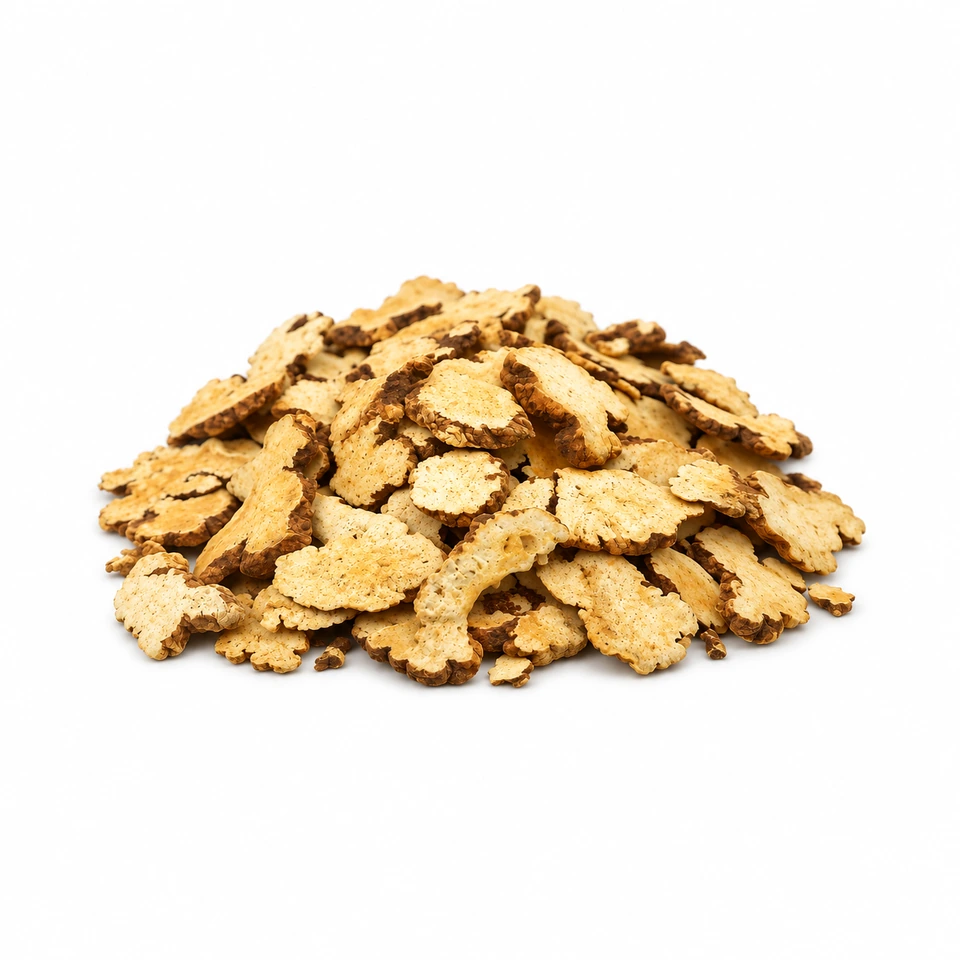
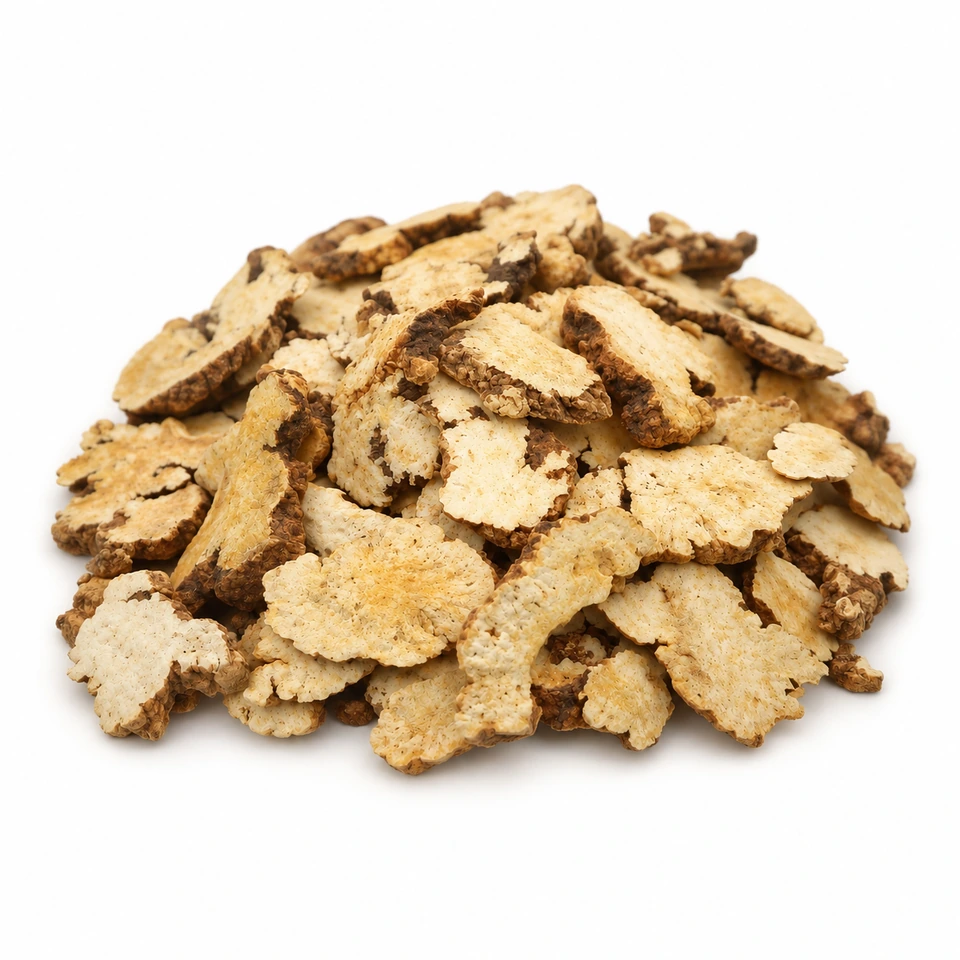
Update premium Dongbuk atractylodes with approved natural larger slices

diff --git a/app/ProductImage.js b/app/ProductImage.js
@@ -8,7 +8,7 @@ export default function ProductImage({ src, name, origin }) {
   const visible = Boolean(src) && !failed;
   const reference = src?.startsWith("/products-reference/");
   const localPhoto = reference || src?.startsWith("/products/");
-  const imageSrc = localPhoto ? `${src}${src.includes("?") ? "&" : "?"}photo=${src.split("?")[0] === "/products-reference/uniform-20261029/herb-001.webp" ? "gaja-20261117-v1" : src.split("?")[0] === "/products-reference/uniform-20261029/herb-003-v2.webp" ? "galgeun-20261117-v1" : src.split("?")[0] === "/products-reference/uniform-20261029/herb-004.webp" ? "galhwa-20261118-v1" : src.split("?")[0] === "/products-reference/uniform-20261029/herb-005.webp" ? "gamguk-20261118-v1" : src.split("?")[0] === "/products-reference/uniform-20261029/gamin-geomin.webp" ? "geomin-20261118-v1" : src.split("?")[0] === "/products-reference/uniform-20261029/herb-007.webp" ? "licorice-20261118-v1" : src.split("?")[0] === "/products-reference/uniform-20261029/gamcho-yangwai1-20261118.webp" ? "yangwai1-20261118-v3" : src.split("?")[0] === "/products-reference/uniform-20261029/gamcho-roasted-v2.webp" ? "roasted-20261118-v2" : src.split("?")[0].startsWith("/products-reference/uniform-20261029/gamcho-roasted-") ? "roasted-20261118-v2" : src.split("?")[0] === "/products-reference/uniform-20261029/herb-008.webp" ? "ganghwal-20261118-v1" : src.split("?")[0] === "/products-reference/uniform-20261029/herb-009-v2.webp" ? "jamganghwal-20261118-v3" : src.split("?")[0] === "/products-reference/uniform-20261029/herb-010.webp" ? "ganghwang-20261118-v2" : src.split("?")[0] === "/products-reference/uniform-20261029/herb-011.webp" ? "gaeja-20261118-v1" : src.split("?")[0] === "/products-reference/uniform-20261029/herb-012.webp" ? "ginger-20261118-v3" : src.split("?")[0] === "/products-reference/uniform-20261029/herb-013-v2.webp" ? "ginger-roasted-20261118-v1" : src.split("?")[0] === "/products-reference/uniform-20261029/ginger-domestic-20261118.webp" ? "ginger-domestic-20261118-v2" : src.split("?")[0] === "/products-reference/uniform-20261029/herb-014-v3.webp" ? "chestnut-20261118-v1" : src.split("?")[0] === "/products-reference/uniform-20261029/herb-015-v2.webp" ? "pharbitis-20261118-v1" : src.split("?")[0] === "/products-reference/uniform-20261029/herb-016.webp" ? "cassia-20261118-v1" : src.split("?")[0] === "/products-reference/uniform-20261029/herb-017-v2.webp" ? "gizzard-20261118-v1" : src.split("?")[0] === "/products-reference/uniform-20261029/herb-018-v2.webp" ? "gizzard-roasted-20261118-v1" : src.split("?")[0] === "/products-reference/uniform-20261029/herb-019-v3.webp" ? "twig-20261118-v1" : src.split("?")[0] === "/products-reference/uniform-20261029/herb-020.webp" ? "vine-20261118-v1" : src.split("?")[0] === "/products-reference/uniform-20261029/herb-021.webp" ? "galangal-20261118-v1" : src.split("?")[0] === "/products-reference/uniform-20261029/gobon-domestic-20261118.webp" ? "gobon-dom-20261118-v1" : src.split("?")[0] === "/products-reference/uniform-20261029/herb-022.webp" ? "gobon-imp-20261118-v1" : src.split("?")[0] === "/products-reference/uniform-20261029/herb-023-v2.webp" ? "sophora-20261118-v1" : src.split("?")[0] === "/products-reference/uniform-20261029/herb-024-v2.webp" ? "mistletoe-20261118-v1" : src.split("?")[0] === "/products-reference/uniform-20261029/herb-025.webp" ? "rice-20261118-v1" : src.split("?")[0] === "/products-reference/uniform-20261029/herb-026-v2.webp" ? "drynaria-20261118-v1" : src.split("?")[0] === "/products-reference/uniform-20261029/herb-027-v2.webp" ? "fruit-20261118-v1" : src.split("?")[0] === "/products-reference/uniform-20261029/gwakhyang.webp" ? "agastache-20261118-v1" : src.split("?")[0] === "/products-reference/uniform-20261029/herb-028-v2.webp" ? "coltsfoot-20261118-v1" : src.split("?")[0] === "/products-reference/uniform-20261029/gwallugeun-domestic-20261118.webp" ? "trich-dom-20261118-v1" : src.split("?")[0] === "/products-reference/uniform-20261029/herb-029-v2.webp" ? "trich-imp-20261118-v1" : src.split("?")[0] === "/products-reference/uniform-20261029/herb-031.webp" ? "seed-whole-20261119-v1" : src.split("?")[0] === "/products-reference/uniform-20261029/herb-030-v2.webp" ? "seed-coarse-20261119-v1" : src.split("?")[0] === "/products-reference/uniform-20261029/herb-032-v3.webp" ? "patchouli-20261119-v1" : src.split("?")[0] === "/products-reference/uniform-20261029/herb-033-v3.webp" ? "sophorabud-20261119-v1" : src.split("?")[0] === "/products-reference/uniform-20261029/gugija-domestic-20261119.webp" ? "goji-dom-20261119-v1" : src.split("?")[0] === "/products-reference/uniform-20261029/gugija-large-20261119.webp" ? "goji-large-20261119-v1" : src.split("?")[0] === "/products-reference/uniform-20261029/gugija-premium-20261119.webp" ? "goji-premium-20261119-v2" : src.split("?")[0] === "/products-reference/uniform-20261029/herb-035-v2.webp" ? "dianthus-20261119-v1" : src.split("?")[0] === "/products-reference/uniform-20261029/herb-036.webp" ? "chiveseed-20261119-v1" : src.split("?")[0] === "/products-reference/uniform-20261029/gujeolcho.webp" ? "gujeolcho-20261119-v1" : src.split("?")[0] === "/products-reference/uniform-20261029/herb-037-v2.webp" ? "cibotium-20261119-v1" : src.split("?")[0] === "/products-reference/uniform-20261029/herb-038.webp" ? "plastron-20261119-v1" : src.split("?")[0] === "/products-reference/uniform-20261029/herb-040-v2.webp" ? "rosefruit-20261119-v1" : src.split("?")[0] === "/products-reference/uniform-20261029/herb-041-v3.webp" ? "honeysuckle-20261119-v1" : src.split("?")[0] === "/products-reference/uniform-20261029/herb-042.webp" ? "lysimachia-20261119-v1" : src.split("?")[0] === "/products-reference/uniform-20261029/gilgyeong-domestic-20261119.webp" ? "platy-dom-20261119-v1" : src.split("?")[0] === "/products-reference/uniform-20261029/herb-043-v2.webp" ? "platy-imp-20261119-v1" : src.split("?")[0] === "/products-reference/uniform-20261029/herb-044-v2.webp" ? "radish-20261119-v2" : src.split("?")[0] === "/products-reference/uniform-20261029/herb-048-v2.webp" ? "radish-coarse-20261119-v1" : src.split("?")[0] === "/products-reference/uniform-20261029/herb-046-v2.webp" ? "arisaema-20261119-v1" : src.split("?")[0] === "/products-reference/uniform-20261029/herb-047-v2.webp" ? "arisaema-alum-20261119-v1" : src.split("?")[0] === "/products-reference/uniform-20261029/herb-045-v2.webp" ? "vinecut-20261119-v1" : src.split("?")[0] === "/products-reference/uniform-20261029/herb-049-v2.webp" ? "radish-roasted-20261119-v2" : src.split("?")[0] === "/products-reference/uniform-20261029/herb-050-v2.webp" ? "reed-20261119-v1" : src.split("?")[0] === "/products-reference/uniform-20261029/herb-051-v2.webp" ? "antler-package-20261119-v1" : src.split("?")[0] === "/products-reference/uniform-20261029/herb-052-v2.webp" ? "salvia-20261119-v1" : src.split("?")[0] === "/products-reference/uniform-20261029/danggui-domestic-20261119.webp" ? "angel-dom-20261119-v2" : src.split("?")[0] === "/products-reference/uniform-20261029/herb-056-v2.webp" ? "angel-tail-20261119-v1" : src.split("?")[0] === "/products-reference/uniform-20261029/herb-054-v2.webp" ? "angel-imp-20261119-v1" : src.split("?")[0] === "/products-reference/uniform-20261029/herb-057.webp" ? "angel-body-20261119-v2" : src.split("?")[0] === "/products-reference/uniform-20261029/damdusi-package-20261119.webp" ? "soypackage-20261119-v1" : src.split("?")[0] === "/products-reference/uniform-20261029/herb-058-v2.webp" ? "codonopsis-20261119-v1" : src.split("?")[0] === "/products-reference/uniform-20261029/herb-059-v2.webp" ? "arecahusk-20261119-v1" : src.split("?")[0] === "/products-reference/uniform-20261029/herb-060.webp" ? "isatisleaf-20261119-v1" : src.split("?")[0] === "/products-reference/uniform-20261029/herb-063.webp" ? "jujubeslice-20261119-v1" : src.split("?")[0] === "/products-reference/uniform-20261029/herb-064.webp" ? "rhubarb-20261119-v1" : src.split("?")[0] === "/products-reference/uniform-20261029/herb-067-v2.webp" ? "rhubarb-steamed-20261119-v1" : src.split("?")[0] === "/products-reference/uniform-20261029/herb-070-v2.webp" ? "peach-cut-20261119-v1" : src.split("?")[0] === "/products-reference/uniform-20261029/herb-065.webp" ? "rhubarb-longleaf-20261119-v1" : src.split("?")[0] === "/products-reference/uniform-20261029/herb-250.webp" ? "rhubarb-small-20261119-v1" : src.split("?")[0] === "/products-reference/uniform-20261029/herb-066.webp" ? "rhubarb-small-20261119-v1" : src.split("?")[0] === "/products-reference/uniform-20261029/herb-069.webp" ? "peach-whole-20261119-v1" : src.split("?")[0] === "/products-reference/uniform-20261029/herb-072-v2.webp" ? "donggwaja-20261119-v1" : src.split("?")[0] === "/products-reference/uniform-20261029/herb-075.webp" ? "duchung-20261119-v1" : src.split("?")[0] === "/products-reference/uniform-20261029/herb-076-20261027.webp" ? "duchung-salt-20261119-v1" : src.split("?")[0] === "/products-reference/uniform-20261029/herb-077-20261027.webp" ? "deungpi-20261119-v1" : src.split("?")[0] === "/products-reference/uniform-20261029/dokhwal-domestic-20261120.webp" ? "dokhwal-dom-20261120-v1" : src.split("?")[0] === "/products-reference/uniform-20261029/dokhwal-import-20261120.webp" ? "dokhwal-imp-20261120-v1" : src.split("?")[0] === "/products-reference/uniform-20261029/deungsimcho-20261120.webp" ? "deungsimcho-20261120" : src.split("?")[0] === "/products-reference/uniform-20261029/dokhwal-import-20261120-v2.webp" ? "dokhwal-import-20261120-v2" : src.split("?")[0] === "/products-reference/uniform-20261029/herb-078-20261027.webp" ? "rowan-20261120-v1" : src.split("?")[0] === "/products-reference/uniform-20261029/herb-079-20261029-revised.webp" ? "ephedra-20261120-v1" : src.split("?")[0] === "/products-reference/uniform-20261029/herb-080-20261027.webp" ? "ephedra-processed-20261120-v1" : src.split("?")[0] === "/products-reference/uniform-20261029/herb-081-20261027.webp" ? "vitex-20261120-v1" : src.split("?")[0] === "/products-reference/uniform-20261029/herb-082-20261027.webp" ? "mirabilite-20261120-v1" : src.split("?")[0] === "/products-reference/uniform-20261029/maekmundong-domestic-20261120-v2.webp" ? "maekmundong-domestic-20261120-v2" : src.split("?")[0] === "/products-reference/uniform-20261029/maekmundong-import-20261120.webp" ? "maekmundong-import-20261120-v1" : src.split("?")[0] === "/products-reference/uniform-20261029/maekmundong-regular-20261120.webp" ? "maekmundong-regular-20261120-v1" : src.split("?")[0] === "/products-reference/uniform-20261029/herb-084.webp" ? "malt-package-20261120-v1" : src.split("?")[0] === "/products-reference/uniform-20261029/memil-gyomaek-v2.webp" ? "buckwheat-husk-20261120-v1" : src.split("?")[0] === "/products-reference/uniform-20261029/herb-086-20261027.webp" ? "quince-20261120-v1" : src.split("?")[0] === "/products-reference/uniform-20261029/herb-087.webp" ? "cogonroot-20261120-v1" : src.split("?")[0] === "/products-reference/uniform-20261029/herb-088.webp" ? "oystershell-20261120-v1" : src.split("?")[0] === "/products-reference/uniform-20261029/herb-089.webp" ? "oyster-powder-package-20261120-v1" : src.split("?")[0] === "/products-reference/uniform-20261029/mokdanpi-aa-20261120.webp" ? "mokdanpi-aa-20261120-v2" : src.split("?")[0] === "/products-reference/uniform-20261029/mokdanpi-large-20261120.webp" ? "mokdanpi-large-20261120-v2" : src.split("?")[0] === "/products-reference/uniform-20261029/herb-091-20261029-revised.webp" ? "horsetail-20261120-v1" : src.split("?")[0] === "/products-reference/uniform-20261029/herb-092-20261027.webp" ? "akebia-20261120-v1" : src.split("?")[0] === "/products-reference/uniform-20261029/herb-093-20261027.webp" ? "costus-20261120-v1" : src.split("?")[0] === "/products-reference/uniform-20261029/herb-094-20261027.webp" ? "myrrh-20261120-v1" : src.split("?")[0] === "/products-reference/uniform-20261029/bakha-cham.webp" ? "herbs-batch15-20261120-v1" : src.split("?")[0] === "/products-reference/uniform-20261029/herb-098-20261029-revised.webp" ? "herbs-batch15-20261120-v1" : src.split("?")[0] === "/products-reference/uniform-20261029/herb-100-20261029-revised.webp" ? "herbs-batch15-20261120-v1" : src.split("?")[0] === "/products-reference/uniform-20261029/herb-101-20261027.webp" ? "herbs-batch15-20261120-v1" : src.split("?")[0] === "/products-reference/uniform-20261029/herb-102-20261027.webp" ? "herbs-batch15-20261120-v1" : src.split("?")[0] === "/products-reference/uniform-20261029/herb-103-20261027.webp" ? "herbs-batch15-20261120-v1" : src.split("?")[0] === "/products-reference/uniform-20261029/baekgulchae.webp" ? "herbs-batch15-20261120-v1" : src.split("?")[0] === "/products-reference/uniform-20261029/herb-106.webp" ? "herbs-redo3-20261120-v1" : src.split("?")[0] === "/products-reference/uniform-20261029/baekdugu-geopi.webp" ? "herbs-batch15-20261120-v1" : src.split("?")[0] === "/products-reference/uniform-20261029/baekdugu-yupi-chumal-v2.webp" ? "herbs-batch15-20261120-v1" : src.split("?")[0] === "/products-reference/uniform-20261029/herb-109-20261027.webp" ? "herbs-batch15-20261120-v1" : src.split("?")[0] === "/products-reference/uniform-20261029/herb-110-20261027.webp" ? "herbs-batch15-20261120-v1" : src.split("?")[0] === "/products-reference/uniform-20261029/herb-112-20261027.webp" ? "herbs-batch15-20261120-v1" : src.split("?")[0] === "/products-reference/uniform-20261029/baekbuja-gwan-v2.webp" ? "herbs-batch15-20261120-v1" : src.split("?")[0] === "/products-reference/uniform-20261029/herb-114-20261027.webp" ? "herbs-redo3-20261120-v1" : src.split("?")[0] === "/products-reference/uniform-20261029/herb-115-20261027.webp" ? "herbs-batch-next15-20261120-v1" : src.split("?")[0] === "/products-reference/uniform-20261029/herb-116-20261027.webp" ? "herbs-batch-next15-20261120-v1" : src.split("?")[0] === "/products-reference/uniform-20261029/herb-117-20261027.webp" ? "herbs-batch-next15-20261120-v1" : src.split("?")[0] === "/products-reference/uniform-20261029/herb-118-20261027.webp" ? "herbs-batch-next15-20261120-v1" : src.split("?")[0] === "/products-reference/uniform-20261029/herb-119-20261027.webp" ? "herbs-batch-next15-20261120-v1" : src.split("?")[0] === "/products-reference/uniform-20261029/baekchul-dongbuk.webp" ? "herbs-batch-next15-20261120-v1" : src.split("?")[0] === "/products-reference/uniform-20261029/herb-120-20261027.webp" ? "herbs-batch-next15-20261120-v1" : src.split("?")[0] === "/products-reference/uniform-20261029/herb-126.webp" ? "herbs-batch-next15-20261120-v1" : src.split("?")[0] === "/products-reference/uniform-20261029/herb-127-20261027-c.webp" ? "herbs-batch-next15-20261120-v1" : src.split("?")[0] === "/products-reference/uniform-20261029/herb-128-20261027-c.webp" ? "herbs-batch-next15-20261120-v1" : src.split("?")[0] === "/products-reference/uniform-20261029/herb-129-20261027-c.webp" ? "herbs-batch-next15-20261120-v1" : src.split("?")[0] === "/products-reference/uniform-20261029/bokryeong-yasaeng.webp" ? "herbs-batch-next15-20261120-v1" : src.split("?")[0] === "/products-reference/uniform-20261029/herb-130-20261027-c.webp" ? "herbs-redo3-20261120-v1" : src.split("?")[0] === "/products-reference/uniform-20261029/herb-134-20261027-c.webp" ? "herbs-batch-next15-20261120-v1" : src.split("?")[0] === "/products-reference/uniform-20261029/herb-135-20261027-c.webp" ? "herbs-batch11-20261120-v1" : src.split("?")[0] === "/products-reference/uniform-20261029/herb-131-20261027-c.webp" ? "herbs-batch11-20261120-v1" : src.split("?")[0] === "/products-reference/uniform-20261029/buja-gyeongpo.webp" ? "herbs-batch11-20261120-v1" : src.split("?")[0] === "/products-reference/uniform-20261029/bupyeongcho.webp" ? "herbs-batch11-20261120-v1" : src.split("?")[0] === "/products-reference/uniform-20261029/herb-138-20261027-c.webp" ? "herbs-batch11-20261120-v1" : src.split("?")[0] === "/products-reference/uniform-20261029/herb-139-20261027-c.webp" ? "herbs-batch11-20261120-v1" : src.split("?")[0] === "/products-reference/uniform-20261029/herb-104-20261027-c.webp" ? "herbs-batch11-20261120-v1" : src.split("?")[0] === "/products-reference/uniform-20261029/herb-099-20261027.webp" ? "herbs-batch11-20261120-v1" : src.split("?")[0] === "/products-reference/uniform-20261029/herb-132-20261027-c.webp" ? "herbs-batch11-20261120-v1" : src.split("?")[0] === "/products-reference/uniform-20261029/herb-133-20261027-c.webp" ? "herbs-batch11-20261120-v1" : src.split("?")[0] === "/products-reference/uniform-20261029/herb-137-20261027-c.webp" ? "herbs-batch11-20261120-v1" : src.split("?")[0] === "/products-reference/uniform-20261029/herb-123-20261027-c.webp" ? "baekchulcho-20261120-v1" : "linen-20261116-v2"}` : src;
+  const imageSrc = localPhoto ? `${src}${src.includes("?") ? "&" : "?"}photo=${src.split("?")[0] === "/products-reference/uniform-20261029/herb-001.webp" ? "gaja-20261117-v1" : src.split("?")[0] === "/products-reference/uniform-20261029/herb-003-v2.webp" ? "galgeun-20261117-v1" : src.split("?")[0] === "/products-reference/uniform-20261029/herb-004.webp" ? "galhwa-20261118-v1" : src.split("?")[0] === "/products-reference/uniform-20261029/herb-005.webp" ? "gamguk-20261118-v1" : src.split("?")[0] === "/products-reference/uniform-20261029/gamin-geomin.webp" ? "geomin-20261118-v1" : src.split("?")[0] === "/products-reference/uniform-20261029/herb-007.webp" ? "licorice-20261118-v1" : src.split("?")[0] === "/products-reference/uniform-20261029/gamcho-yangwai1-20261118.webp" ? "yangwai1-20261118-v3" : src.split("?")[0] === "/products-reference/uniform-20261029/gamcho-roasted-v2.webp" ? "roasted-20261118-v2" : src.split("?")[0].startsWith("/products-reference/uniform-20261029/gamcho-roasted-") ? "roasted-20261118-v2" : src.split("?")[0] === "/products-reference/uniform-20261029/herb-008.webp" ? "ganghwal-20261118-v1" : src.split("?")[0] === "/products-reference/uniform-20261029/herb-009-v2.webp" ? "jamganghwal-20261118-v3" : src.split("?")[0] === "/products-reference/uniform-20261029/herb-010.webp" ? "ganghwang-20261118-v2" : src.split("?")[0] === "/products-reference/uniform-20261029/herb-011.webp" ? "gaeja-20261118-v1" : src.split("?")[0] === "/products-reference/uniform-20261029/herb-012.webp" ? "ginger-20261118-v3" : src.split("?")[0] === "/products-reference/uniform-20261029/herb-013-v2.webp" ? "ginger-roasted-20261118-v1" : src.split("?")[0] === "/products-reference/uniform-20261029/ginger-domestic-20261118.webp" ? "ginger-domestic-20261118-v2" : src.split("?")[0] === "/products-reference/uniform-20261029/herb-014-v3.webp" ? "chestnut-20261118-v1" : src.split("?")[0] === "/products-reference/uniform-20261029/herb-015-v2.webp" ? "pharbitis-20261118-v1" : src.split("?")[0] === "/products-reference/uniform-20261029/herb-016.webp" ? "cassia-20261118-v1" : src.split("?")[0] === "/products-reference/uniform-20261029/herb-017-v2.webp" ? "gizzard-20261118-v1" : src.split("?")[0] === "/products-reference/uniform-20261029/herb-018-v2.webp" ? "gizzard-roasted-20261118-v1" : src.split("?")[0] === "/products-reference/uniform-20261029/herb-019-v3.webp" ? "twig-20261118-v1" : src.split("?")[0] === "/products-reference/uniform-20261029/herb-020.webp" ? "vine-20261118-v1" : src.split("?")[0] === "/products-reference/uniform-20261029/herb-021.webp" ? "galangal-20261118-v1" : src.split("?")[0] === "/products-reference/uniform-20261029/gobon-domestic-20261118.webp" ? "gobon-dom-20261118-v1" : src.split("?")[0] === "/products-reference/uniform-20261029/herb-022.webp" ? "gobon-imp-20261118-v1" : src.split("?")[0] === "/products-reference/uniform-20261029/herb-023-v2.webp" ? "sophora-20261118-v1" : src.split("?")[0] === "/products-reference/uniform-20261029/herb-024-v2.webp" ? "mistletoe-20261118-v1" : src.split("?")[0] === "/products-reference/uniform-20261029/herb-025.webp" ? "rice-20261118-v1" : src.split("?")[0] === "/products-reference/uniform-20261029/herb-026-v2.webp" ? "drynaria-20261118-v1" : src.split("?")[0] === "/products-reference/uniform-20261029/herb-027-v2.webp" ? "fruit-20261118-v1" : src.split("?")[0] === "/products-reference/uniform-20261029/gwakhyang.webp" ? "agastache-20261118-v1" : src.split("?")[0] === "/products-reference/uniform-20261029/herb-028-v2.webp" ? "coltsfoot-20261118-v1" : src.split("?")[0] === "/products-reference/uniform-20261029/gwallugeun-domestic-20261118.webp" ? "trich-dom-20261118-v1" : src.split("?")[0] === "/products-reference/uniform-20261029/herb-029-v2.webp" ? "trich-imp-20261118-v1" : src.split("?")[0] === "/products-reference/uniform-20261029/herb-031.webp" ? "seed-whole-20261119-v1" : src.split("?")[0] === "/products-reference/uniform-20261029/herb-030-v2.webp" ? "seed-coarse-20261119-v1" : src.split("?")[0] === "/products-reference/uniform-20261029/herb-032-v3.webp" ? "patchouli-20261119-v1" : src.split("?")[0] === "/products-reference/uniform-20261029/herb-033-v3.webp" ? "sophorabud-20261119-v1" : src.split("?")[0] === "/products-reference/uniform-20261029/gugija-domestic-20261119.webp" ? "goji-dom-20261119-v1" : src.split("?")[0] === "/products-reference/uniform-20261029/gugija-large-20261119.webp" ? "goji-large-20261119-v1" : src.split("?")[0] === "/products-reference/uniform-20261029/gugija-premium-20261119.webp" ? "goji-premium-20261119-v2" : src.split("?")[0] === "/products-reference/uniform-20261029/herb-035-v2.webp" ? "dianthus-20261119-v1" : src.split("?")[0] === "/products-reference/uniform-20261029/herb-036.webp" ? "chiveseed-20261119-v1" : src.split("?")[0] === "/products-reference/uniform-20261029/gujeolcho.webp" ? "gujeolcho-20261119-v1" : src.split("?")[0] === "/products-reference/uniform-20261029/herb-037-v2.webp" ? "cibotium-20261119-v1" : src.split("?")[0] === "/products-reference/uniform-20261029/herb-038.webp" ? "plastron-20261119-v1" : src.split("?")[0] === "/products-reference/uniform-20261029/herb-040-v2.webp" ? "rosefruit-20261119-v1" : src.split("?")[0] === "/products-reference/uniform-20261029/herb-041-v3.webp" ? "honeysuckle-20261119-v1" : src.split("?")[0] === "/products-reference/uniform-20261029/herb-042.webp" ? "lysimachia-20261119-v1" : src.split("?")[0] === "/products-reference/uniform-20261029/gilgyeong-domestic-20261119.webp" ? "platy-dom-20261119-v1" : src.split("?")[0] === "/products-reference/uniform-20261029/herb-043-v2.webp" ? "platy-imp-20261119-v1" : src.split("?")[0] === "/products-reference/uniform-20261029/herb-044-v2.webp" ? "radish-20261119-v2" : src.split("?")[0] === "/products-reference/uniform-20261029/herb-048-v2.webp" ? "radish-coarse-20261119-v1" : src.split("?")[0] === "/products-reference/uniform-20261029/herb-046-v2.webp" ? "arisaema-20261119-v1" : src.split("?")[0] === "/products-reference/uniform-20261029/herb-047-v2.webp" ? "arisaema-alum-20261119-v1" : src.split("?")[0] === "/products-reference/uniform-20261029/herb-045-v2.webp" ? "vinecut-20261119-v1" : src.split("?")[0] === "/products-reference/uniform-20261029/herb-049-v2.webp" ? "radish-roasted-20261119-v2" : src.split("?")[0] === "/products-reference/uniform-20261029/herb-050-v2.webp" ? "reed-20261119-v1" : src.split("?")[0] === "/products-reference/uniform-20261029/herb-051-v2.webp" ? "antler-package-20261119-v1" : src.split("?")[0] === "/products-reference/uniform-20261029/herb-052-v2.webp" ? "salvia-20261119-v1" : src.split("?")[0] === "/products-reference/uniform-20261029/danggui-domestic-20261119.webp" ? "angel-dom-20261119-v2" : src.split("?")[0] === "/products-reference/uniform-20261029/herb-056-v2.webp" ? "angel-tail-20261119-v1" : src.split("?")[0] === "/products-reference/uniform-20261029/herb-054-v2.webp" ? "angel-imp-20261119-v1" : src.split("?")[0] === "/products-reference/uniform-20261029/herb-057.webp" ? "angel-body-20261119-v2" : src.split("?")[0] === "/products-reference/uniform-20261029/damdusi-package-20261119.webp" ? "soypackage-20261119-v1" : src.split("?")[0] === "/products-reference/uniform-20261029/herb-058-v2.webp" ? "codonopsis-20261119-v1" : src.split("?")[0] === "/products-reference/uniform-20261029/herb-059-v2.webp" ? "arecahusk-20261119-v1" : src.split("?")[0] === "/products-reference/uniform-20261029/herb-060.webp" ? "isatisleaf-20261119-v1" : src.split("?")[0] === "/products-reference/uniform-20261029/herb-063.webp" ? "jujubeslice-20261119-v1" : src.split("?")[0] === "/products-reference/uniform-20261029/herb-064.webp" ? "rhubarb-20261119-v1" : src.split("?")[0] === "/products-reference/uniform-20261029/herb-067-v2.webp" ? "rhubarb-steamed-20261119-v1" : src.split("?")[0] === "/products-reference/uniform-20261029/herb-070-v2.webp" ? "peach-cut-20261119-v1" : src.split("?")[0] === "/products-reference/uniform-20261029/herb-065.webp" ? "rhubarb-longleaf-20261119-v1" : src.split("?")[0] === "/products-reference/uniform-20261029/herb-250.webp" ? "rhubarb-small-20261119-v1" : src.split("?")[0] === "/products-reference/uniform-20261029/herb-066.webp" ? "rhubarb-small-20261119-v1" : src.split("?")[0] === "/products-reference/uniform-20261029/herb-069.webp" ? "peach-whole-20261119-v1" : src.split("?")[0] === "/products-reference/uniform-20261029/herb-072-v2.webp" ? "donggwaja-20261119-v1" : src.split("?")[0] === "/products-reference/uniform-20261029/herb-075.webp" ? "duchung-20261119-v1" : src.split("?")[0] === "/products-reference/uniform-20261029/herb-076-20261027.webp" ? "duchung-salt-20261119-v1" : src.split("?")[0] === "/products-reference/uniform-20261029/herb-077-20261027.webp" ? "deungpi-20261119-v1" : src.split("?")[0] === "/products-reference/uniform-20261029/dokhwal-domestic-20261120.webp" ? "dokhwal-dom-20261120-v1" : src.split("?")[0] === "/products-reference/uniform-20261029/dokhwal-import-20261120.webp" ? "dokhwal-imp-20261120-v1" : src.split("?")[0] === "/products-reference/uniform-20261029/deungsimcho-20261120.webp" ? "deungsimcho-20261120" : src.split("?")[0] === "/products-reference/uniform-20261029/dokhwal-import-20261120-v2.webp" ? "dokhwal-import-20261120-v2" : src.split("?")[0] === "/products-reference/uniform-20261029/herb-078-20261027.webp" ? "rowan-20261120-v1" : src.split("?")[0] === "/products-reference/uniform-20261029/herb-079-20261029-revised.webp" ? "ephedra-20261120-v1" : src.split("?")[0] === "/products-reference/uniform-20261029/herb-080-20261027.webp" ? "ephedra-processed-20261120-v1" : src.split("?")[0] === "/products-reference/uniform-20261029/herb-081-20261027.webp" ? "vitex-20261120-v1" : src.split("?")[0] === "/products-reference/uniform-20261029/herb-082-20261027.webp" ? "mirabilite-20261120-v1" : src.split("?")[0] === "/products-reference/uniform-20261029/maekmundong-domestic-20261120-v2.webp" ? "maekmundong-domestic-20261120-v2" : src.split("?")[0] === "/products-reference/uniform-20261029/maekmundong-import-20261120.webp" ? "maekmundong-import-20261120-v1" : src.split("?")[0] === "/products-reference/uniform-20261029/maekmundong-regular-20261120.webp" ? "maekmundong-regular-20261120-v1" : src.split("?")[0] === "/products-reference/uniform-20261029/herb-084.webp" ? "malt-package-20261120-v1" : src.split("?")[0] === "/products-reference/uniform-20261029/memil-gyomaek-v2.webp" ? "buckwheat-husk-20261120-v1" : src.split("?")[0] === "/products-reference/uniform-20261029/herb-086-20261027.webp" ? "quince-20261120-v1" : src.split("?")[0] === "/products-reference/uniform-20261029/herb-087.webp" ? "cogonroot-20261120-v1" : src.split("?")[0] === "/products-reference/uniform-20261029/herb-088.webp" ? "oystershell-20261120-v1" : src.split("?")[0] === "/products-reference/uniform-20261029/herb-089.webp" ? "oyster-powder-package-20261120-v1" : src.split("?")[0] === "/products-reference/uniform-20261029/mokdanpi-aa-20261120.webp" ? "mokdanpi-aa-20261120-v2" : src.split("?")[0] === "/products-reference/uniform-20261029/mokdanpi-large-20261120.webp" ? "mokdanpi-large-20261120-v2" : src.split("?")[0] === "/products-reference/uniform-20261029/herb-091-20261029-revised.webp" ? "horsetail-20261120-v1" : src.split("?")[0] === "/products-reference/uniform-20261029/herb-092-20261027.webp" ? "akebia-20261120-v1" : src.split("?")[0] === "/products-reference/uniform-20261029/herb-093-20261027.webp" ? "costus-20261120-v1" : src.split("?")[0] === "/products-reference/uniform-20261029/herb-094-20261027.webp" ? "myrrh-20261120-v1" : src.split("?")[0] === "/products-reference/uniform-20261029/bakha-cham.webp" ? "herbs-batch15-20261120-v1" : src.split("?")[0] === "/products-reference/uniform-20261029/herb-098-20261029-revised.webp" ? "herbs-batch15-20261120-v1" : src.split("?")[0] === "/products-reference/uniform-20261029/herb-100-20261029-revised.webp" ? "herbs-batch15-20261120-v1" : src.split("?")[0] === "/products-reference/uniform-20261029/herb-101-20261027.webp" ? "herbs-batch15-20261120-v1" : src.split("?")[0] === "/products-reference/uniform-20261029/herb-102-20261027.webp" ? "herbs-batch15-20261120-v1" : src.split("?")[0] === "/products-reference/uniform-20261029/herb-103-20261027.webp" ? "herbs-batch15-20261120-v1" : src.split("?")[0] === "/products-reference/uniform-20261029/baekgulchae.webp" ? "herbs-batch15-20261120-v1" : src.split("?")[0] === "/products-reference/uniform-20261029/herb-106.webp" ? "herbs-redo3-20261120-v1" : src.split("?")[0] === "/products-reference/uniform-20261029/baekdugu-geopi.webp" ? "herbs-batch15-20261120-v1" : src.split("?")[0] === "/products-reference/uniform-20261029/baekdugu-yupi-chumal-v2.webp" ? "herbs-batch15-20261120-v1" : src.split("?")[0] === "/products-reference/uniform-20261029/herb-109-20261027.webp" ? "herbs-batch15-20261120-v1" : src.split("?")[0] === "/products-reference/uniform-20261029/herb-110-20261027.webp" ? "herbs-batch15-20261120-v1" : src.split("?")[0] === "/products-reference/uniform-20261029/herb-112-20261027.webp" ? "herbs-batch15-20261120-v1" : src.split("?")[0] === "/products-reference/uniform-20261029/baekbuja-gwan-v2.webp" ? "herbs-batch15-20261120-v1" : src.split("?")[0] === "/products-reference/uniform-20261029/herb-114-20261027.webp" ? "herbs-redo3-20261120-v1" : src.split("?")[0] === "/products-reference/uniform-20261029/herb-115-20261027.webp" ? "herbs-batch-next15-20261120-v1" : src.split("?")[0] === "/products-reference/uniform-20261029/herb-116-20261027.webp" ? "herbs-batch-next15-20261120-v1" : src.split("?")[0] === "/products-reference/uniform-20261029/herb-117-20261027.webp" ? "herbs-batch-next15-20261120-v1" : src.split("?")[0] === "/products-reference/uniform-20261029/herb-118-20261027.webp" ? "herbs-batch-next15-20261120-v1" : src.split("?")[0] === "/products-reference/uniform-20261029/herb-119-20261027.webp" ? "herbs-batch-next15-20261120-v1" : src.split("?")[0] === "/products-reference/uniform-20261029/baekchul-dongbuk.webp" ? "baekchul-dongbuk-20261120-v2" : src.split("?")[0] === "/products-reference/uniform-20261029/herb-120-20261027.webp" ? "herbs-batch-next15-20261120-v1" : src.split("?")[0] === "/products-reference/uniform-20261029/herb-126.webp" ? "herbs-batch-next15-20261120-v1" : src.split("?")[0] === "/products-reference/uniform-20261029/herb-127-20261027-c.webp" ? "herbs-batch-next15-20261120-v1" : src.split("?")[0] === "/products-reference/uniform-20261029/herb-128-20261027-c.webp" ? "herbs-batch-next15-20261120-v1" : src.split("?")[0] === "/products-reference/uniform-20261029/herb-129-20261027-c.webp" ? "herbs-batch-next15-20261120-v1" : src.split("?")[0] === "/products-reference/uniform-20261029/bokryeong-yasaeng.webp" ? "herbs-batch-next15-20261120-v1" : src.split("?")[0] === "/products-reference/uniform-20261029/herb-130-20261027-c.webp" ? "herbs-redo3-20261120-v1" : src.split("?")[0] === "/products-reference/uniform-20261029/herb-134-20261027-c.webp" ? "herbs-batch-next15-20261120-v1" : src.split("?")[0] === "/products-reference/uniform-20261029/herb-135-20261027-c.webp" ? "herbs-batch11-20261120-v1" : src.split("?")[0] === "/products-reference/uniform-20261029/herb-131-20261027-c.webp" ? "herbs-batch11-20261120-v1" : src.split("?")[0] === "/products-reference/uniform-20261029/buja-gyeongpo.webp" ? "herbs-batch11-20261120-v1" : src.split("?")[0] === "/products-reference/uniform-20261029/bupyeongcho.webp" ? "herbs-batch11-20261120-v1" : src.split("?")[0] === "/products-reference/uniform-20261029/herb-138-20261027-c.webp" ? "herbs-batch11-20261120-v1" : src.split("?")[0] === "/products-reference/uniform-20261029/herb-139-20261027-c.webp" ? "herbs-batch11-20261120-v1" : src.split("?")[0] === "/products-reference/uniform-20261029/herb-104-20261027-c.webp" ? "herbs-batch11-20261120-v1" : src.split("?")[0] === "/products-reference/uniform-20261029/herb-099-20261027.webp" ? "herbs-batch11-20261120-v1" : src.split("?")[0] === "/products-reference/uniform-20261029/herb-132-20261027-c.webp" ? "herbs-batch11-20261120-v1" : src.split("?")[0] === "/products-reference/uniform-20261029/herb-133-20261027-c.webp" ? "herbs-batch11-20261120-v1" : src.split("?")[0] === "/products-reference/uniform-20261029/herb-137-20261027-c.webp" ? "herbs-batch11-20261120-v1" : src.split("?")[0] === "/products-reference/uniform-20261029/herb-123-20261027-c.webp" ? "baekchulcho-20261120-v1" : "linen-20261116-v2"}` : src;
   const domesticGalgeun = /^갈근(?:\s*\((?:사각|강원문막)\))?$/.test(name || "")
     && /국내산|국산|한국|대한민국/.test(origin || "")
     && src?.split("?")[0] === "/products-reference/uniform-20261029/herb-003-v2.webp";
